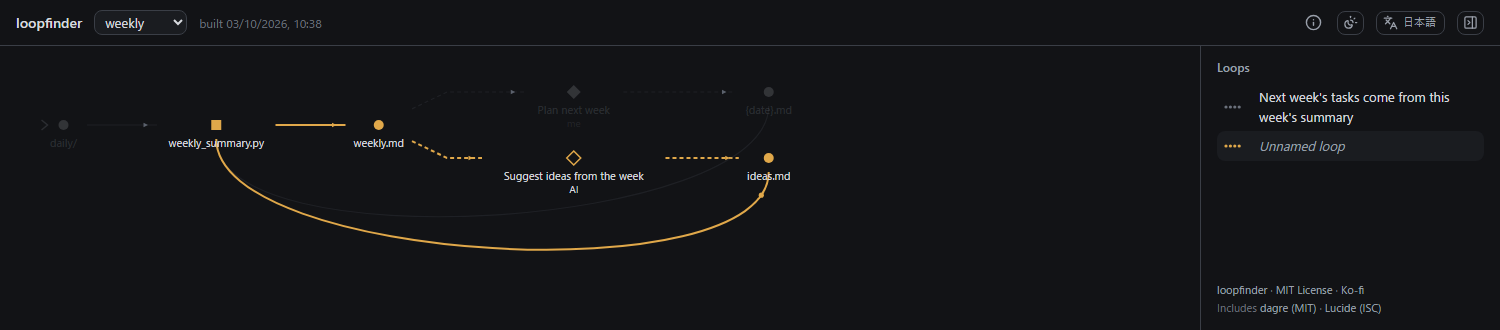
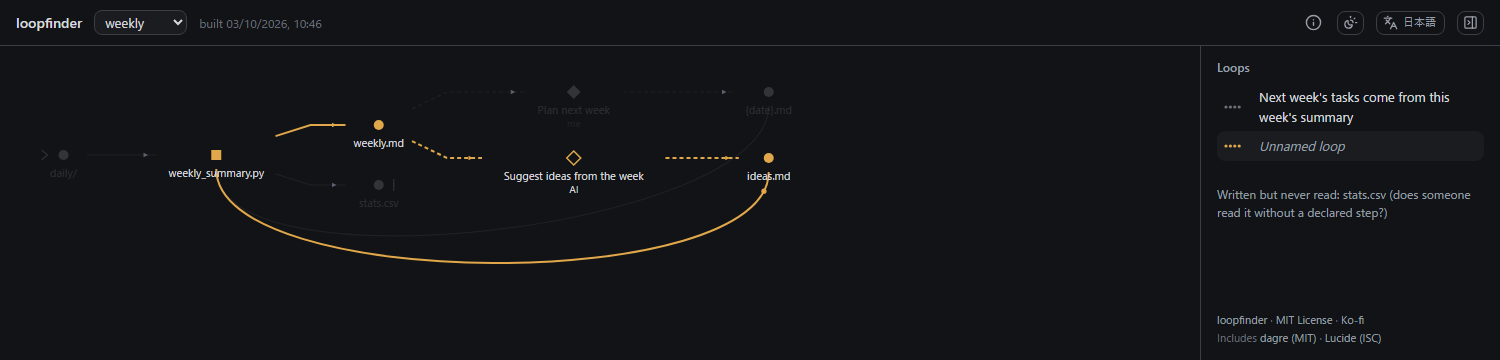
feat: report dead ends, files written but never read
build now lists files that something writes and no flow reads, counted over
all flows together, and the viewer marks them. Sending to a web service is an
intended exit and is not counted. The agent guide says to ask whether someone
reads each one instead of adding an edge to hide it. The demo keeps one dead
end on purpose (summary/stats.csv).

Claude-Session: https://claude.ai/code/session_017sKoAMf7z5eEigqKTwCz8D

diff --git a/test/core.test.js b/test/core.test.js
@@ -189,6 +189,23 @@ test('nodes: dates fold into a placeholder, steps carry who does them', () => {
   assert.strictEqual(n.nodeFromRef('[visitor] Share').actorKind, 'other');
 });
 
+test('dead ends: written and never read, counted over all flows; sending out is not one', () => {
+  const flows = { flows: [
+    { name: 'write', edges: ['notes/in.md -> [me] Write it up -> notes/handoff.md', '[me] Write it up -> web:chat'] },
+    { name: 'read', edges: ['notes/handoff.md -> [AI] Pick it up -> notes/log.md'] },
+  ] };
+  const dir = workspace({ 'loopfinder/config.json': '{}', 'loopfinder/flows.json': JSON.stringify(flows) });
+  const graph = build(loadConfig(path.join(dir, 'loopfinder', 'config.json')), { warn: () => {} });
+  // handoff.md ends the first flow but the second reads it; the message to web:chat is an exit.
+  assert.deepStrictEqual(graph.deadEnds, ['notes/log.md']);
+  assert.strictEqual(graph.nodes.find(nd => nd.id === 'notes/log.md').deadEnd, true);
+  // Control: once nobody reads the hand-off, it is reported too.
+  flows.flows.pop();
+  fs.writeFileSync(path.join(dir, 'loopfinder', 'flows.json'), JSON.stringify(flows));
+  const alone = build(loadConfig(path.join(dir, 'loopfinder', 'config.json')), { warn: () => {} });
+  assert.deepStrictEqual(alone.deadEnds, ['notes/handoff.md']);
+});
+
 function snapshot(dir) {
   const out = {};
   const walk = rel => {
@@ -226,6 +243,8 @@ test('demo: builds the expected loops and leaves the workspace untouched', () =>
   // The outer loop: the weekly review rewrites the topic list the feed loop runs on.
   const outer = loops.find(l => l.name === 'The weekly review changes what the feed collects');
   assert.ok(outer.paths.every(p => p.includes('scripts/feed_topics.json') && p.includes('scripts/fetch_feed.js')));
+  // The one dead end left on purpose: statistics the weekly script writes and nobody reads.
+  assert.deepStrictEqual(graph.deadEnds, ['summary/stats.csv']);
   assert.strictEqual(loops.filter(l => !l.name).length, 1, 'the one loop left undeclared on purpose');
   assert.deepStrictEqual(graph.missingLoops, []);
   // The section hub knows which heading each step touches.

diff --git a/public/app.js b/public/app.js
@@ -41,6 +41,8 @@ function drawMark(g, node) {
     el('rect', { x: -9, y: -4, width: 18, height: 8, rx: 2, class: 'mark-section' }, g);
   } else el('circle', { r: 5, class: 'mark-file' }, g);
   if (node.origin) el('path', { d: 'M-22,-5 L-16,0 L-22,5', class: 'origin-tick' }, g);
+  // A dead end gets a short wall on the side the data would leave from.
+  if (node.deadEnd) el('path', { d: 'M15,-6 L15,6', class: 'deadend-tick' }, g);
 }
 
 function render() {
@@ -249,6 +251,10 @@ function renderLoops() {
   const lost = graph.missingLoops.filter(m => m.startsWith(`${current}: `)).map(m => m.slice(current.length + 2));
   missing.hidden = lost.length === 0;
   missing.textContent = lost.length ? t('missing', { list: lost.join(LANG === 'ja' ? '、' : ', ') }) : '';
+  const ends = document.getElementById('dead-ends');
+  const here = graph.nodes.filter(n => n.deadEnd && (n.flows || []).includes(current)).map(n => n.label);
+  ends.hidden = here.length === 0;
+  ends.textContent = here.length ? t('deadEnds', { list: here.join(LANG === 'ja' ? '、' : ', ') }) : '';
 }
 
 function evidenceText(ev) {
@@ -271,7 +277,7 @@ function renderDetail() {
   if (!n) return;
   const h = document.createElement('h3'); h.textContent = n.label; box.appendChild(h);
   const k = document.createElement('p'); k.className = 'kind';
-  k.textContent = (n.kind === 'step' ? t('stepOf', { actor: n.actor }) : t(`kind_${n.kind}`)) + ((n.originIn || []).includes(current) ? t('originSuffix') : '');
+  k.textContent = (n.kind === 'step' ? t('stepOf', { actor: n.actor }) : t(`kind_${n.kind}`)) + ((n.originIn || []).includes(current) ? t('originSuffix') : '') + (n.deadEnd ? t('deadEndSuffix') : '');
   box.appendChild(k);
   const dl = document.createElement('dl');
   const add = (term, values) => {

diff --git a/public/i18n.js b/public/i18n.js
@@ -19,6 +19,7 @@ const STRINGS = {
     edge_declared: 'Declared by hand (human and AI steps)',
     edge_guess: 'Guessed from code (section hubs)',
     origin: 'Origin (nothing flows into it)',
+    deadEnd: 'Dead end (written, never read)',
     list_loops: 'Loops',
     list_sections: 'Sections',
     list_items: 'Items',
@@ -30,6 +31,8 @@ const STRINGS = {
     generated: 'built {time}',
     stepOf: '{actor} step',
     originSuffix: ', origin',
+    deadEndSuffix: ', dead end',
+    deadEnds: 'Written but never read: {list} (does someone read it without a declared step?)',
     d_location: 'Location',
     d_files: 'Files read or written',
     d_frame: 'Frame',
@@ -74,6 +77,7 @@ const STRINGS = {
     edge_declared: '手で宣言した流れ（人・AI の作業）',
     edge_guess: 'コードから推定した流れ（節の中心図）',
     origin: '起点（どこからも流れ込まない）',
+    deadEnd: '末端（書かれるが、誰も読まない）',
     list_loops: '輪',
     list_sections: '節',
     list_items: '中身',
@@ -85,6 +89,8 @@ const STRINGS = {
     generated: '{time} 時点',
     stepOf: '{actor} の段',
     originSuffix: '・起点',
+    deadEndSuffix: '・末端',
+    deadEnds: '書かれるのに誰も読まないもの: {list}（読む段を宣言し忘れていないか）',
     d_location: '場所',
     d_files: '読み書きしたファイル',
     d_frame: '枠',

diff --git a/src/build.js b/src/build.js
@@ -151,6 +151,16 @@ function build(config, opts = {}) {
     node.originIn = node.flows.filter(f => !dataEdges.some(e => e.to === node.id && e.flows.includes(f)));
   }
 
+  // A dead end is data that something writes and nothing reads, counted over all flows together:
+  // what one flow leaves behind may be what another flow reads. Writing to a web service is an
+  // intended exit, so only files and repositories count. Reading by a person is not recorded, so a
+  // dead end may also be a reading step nobody declared; either way it is worth asking about.
+  const deadEnds = [...nodes.values()]
+    .filter(nd => (nd.kind === 'file' || nd.kind === 'repo')
+      && dataEdges.some(e => e.to === nd.id) && !dataEdges.some(e => e.from === nd.id))
+    .map(nd => nd.id);
+  for (const id of deadEnds) nodes.get(id).deadEnd = true;
+
   const hubs = buildHubs(config, { flows, traces, nodes, edges: dataEdges, n });
   const all = [...loops, ...hubs.flatMap(h => h.loops)].map((l, i) => ({ ...l, id: i }));
   return {
@@ -165,6 +175,7 @@ function build(config, opts = {}) {
     edges: [...edges.values(), ...hubs.flatMap(h => h.edges)],
     loops: all,
     missingLoops: [...new Set(missing)],
+    deadEnds,
   };
 }
 

diff --git a/public/index.html b/public/index.html
@@ -30,6 +30,7 @@
           <li><svg viewBox="-12 -8 24 16"><rect x="-9" y="-4" width="18" height="8" rx="2" class="mark-section"/></svg><span data-i18n="kind_section"></span></li>
           <li><svg viewBox="0 -4 24 8"><line x1="0" y1="0" x2="24" y2="0" class="edge guess"/></svg><span data-i18n="edge_guess"></span></li>
           <li><svg viewBox="-8 -8 16 16"><path d="M-7,-4 L-2,0 L-7,4" class="origin-tick"/><circle cx="3" r="4" class="mark-file"/></svg><span data-i18n="origin"></span></li>
+          <li><svg viewBox="-8 -8 16 16"><circle cx="-2" r="4" class="mark-file"/><path d="M5,-5 L5,5" class="deadend-tick"/></svg><span data-i18n="deadEnd"></span></li>
         </ul>
       </div>
     </details>
@@ -46,6 +47,7 @@
       <h2 id="list-title"></h2>
       <ul id="loops" class="loops"></ul>
       <p id="missing" class="warn" hidden></p>
+      <p id="dead-ends" class="warn" hidden></p>
       <div id="detail" class="detail" hidden></div>
       <footer class="side-foot">
         <a href="https://github.com/MotimotiNotch/loopfinder" target="_blank" rel="noopener">loopfinder</a>

diff --git a/bin/loopfinder.js b/bin/loopfinder.js
@@ -63,6 +63,8 @@ async function cmdBuild() {
   for (const l of real) console.log(`  ${l.flow}: ${l.name || '(unnamed loop)'}`);
   const unnamed = real.filter(l => !l.name);
   if (unnamed.length) console.log(`! ${unnamed.length} unnamed loop(s): feedback you did not declare. Check whether it is intended.`);
+  const ends = graph.deadEnds.map(id => graph.nodes.find(nd => nd.id === id)?.path || id);
+  if (ends.length) console.log(`! ${ends.length} dead end(s): written but never read: ${ends.join(', ')}. Ask whether someone reads it.`);
   for (const m of graph.missingLoops) console.log(`! declared but not found: ${m} (a step changed and the loop broke?)`);
   await runChecks(config, graph);
 }

diff --git a/public/style.css b/public/style.css
@@ -200,6 +200,7 @@ body {
 /* In section hubs, a link guessed from code is drawn weaker than a recorded or declared one. */
 .edge.guess { stroke-dasharray: 1.5 3; }
 .origin-tick { fill: none; stroke: var(--fg-muted); stroke-width: 1.5; }
+.deadend-tick { fill: none; stroke: var(--fg-muted); stroke-width: 1.5; }
 .node text { fill: var(--fg-muted); font-size: 11px; }
 .node .actor { fill: var(--fg-faint); font-size: 10px; }
 .node { cursor: pointer; }

diff --git a/examples/demo/scripts/weekly_summary.py b/examples/demo/scripts/weekly_summary.py
@@ -1,4 +1,5 @@
 """Reads the week's daily notes and the idea list, and writes summary/weekly.md.
+Also writes summary/stats.csv (counts per week), which nothing reads yet.
 
     python scripts/weekly_summary.py
 """
@@ -9,6 +10,7 @@ HERE = os.path.dirname(os.path.abspath(__file__))
 DAILY = os.path.join(HERE, "..", "notes", "daily")
 IDEAS = os.path.join(HERE, "..", "notes", "ideas.md")
 OUT = os.path.join(HERE, "..", "summary", "weekly.md")
+STATS = os.path.join(HERE, "..", "summary", "stats.csv")
 
 tasks, logs = [], []
 for name in sorted(os.listdir(DAILY)):
@@ -25,3 +27,6 @@ with open(OUT, "w", encoding="utf-8") as f:
     f.writelines("- %s\n" % t for t in tasks)
     f.write("\n## Ideas to try\n")
     f.writelines("- %s\n" % i for i in ideas)
+
+with open(STATS, "a", encoding="utf-8") as f:
+    f.write("%d,%d\n" % (len(tasks), len(ideas)))

diff --git a/README.ja.md b/README.ja.md
@@ -14,7 +14,7 @@ loopfinder はその系を描き、中にある輪をすべて並べます。
 
 1. **ワークスペースの調査は、いつも使っている AI エージェントが行います。** loopfinder 自体は AI を持っていません。代わりに案内書 `loopfinder/AGENTS.md` を書き出すので、それを読んで調べるよう、使っているエージェント（Claude Code、Codex、Cursor など）に頼みます。エージェントは調べた結果を `loopfinder/flows.json` に書きます。中身は、どのスクリプトを動かすかと、コードに現れない段（自分の作業、AI の作業）です。自分のノートには手を入れません。
 2. **スクリプトを実際に動かして、触ったものを記録します**（読み・書き・通信・サブプロセス）。書き込みは止めるので、ディスクの上は何も変わりません。
-3. **単純閉路をすべて数え、宣言した名前を当て、残りを知らせます**。*名前のない輪*は、宣言していないフィードバックです。*見つからない輪*は、宣言したのにもう無い輪です（手順が変わって輪が切れた合図）。
+3. **単純閉路をすべて数え、宣言した名前を当て、残りを知らせます**。*名前のない輪*は、宣言していないフィードバックです。*見つからない輪*は、宣言したのにもう無い輪です（手順が変わって輪が切れた合図）。あわせて*末端*も知らせます。書かれるのに、どの流れからも読まれないファイルです（誰も回収していない出力か、宣言し忘れた「読む段」）。
 
 ![デモの reading の流れで輪を1本選んだところ](docs/demo-reading.png)
 
@@ -56,8 +56,8 @@ node /path/to/loopfinder/bin/loopfinder.js build
 node /path/to/loopfinder/bin/loopfinder.js serve
 ```
 
-`build` は、見つけた輪、名前のない輪、宣言したのに見つからない輪を出力します。
-名前のない輪はエージェントに戻してください。どれが意図どおりかをこちらに聞いて、名前を付けます。手順が変わったら、もう一度調査を頼みます。そのときエージェントは、それぞれの流れを読み取った元のファイルから見直します。
+`build` は、見つけた輪、名前のない輪、宣言したのに見つからない輪、末端を出力します。
+名前のない輪と末端はエージェントに戻してください。どの輪が意図どおりかをこちらに聞いて名前を付け、末端は誰かが読んでいるかを聞きます。手順が変わったら、もう一度調査を頼みます。そのときエージェントは、それぞれの流れを読み取った元のファイルから見直します。
 
 loopfinder が置くものは2つのフォルダだけです。`loopfinder/`（流れと設定。バージョン管理に入れておく価値があります）と、`.loopfinder/`（組み立ての出力。ファイルのパスが並ぶので、入れないでください）。
 `AGENTS.md` は、入っている loopfinder の版に合わせて毎回書き直されます。手で直しても、次の実行で消えます。

diff --git a/README.md b/README.md
@@ -20,7 +20,8 @@ loopfinder draws that system and lists every loop in it:
    with writes blocked, so nothing on disk changes.
 3. **It counts every simple cycle, gives each one the name you declared, and reports the rest**:
    an *unnamed loop* is feedback you did not declare; a *missing loop* is one you declared that is no
-   longer there (a step changed and the loop broke).
+   longer there (a step changed and the loop broke). It also reports *dead ends*: files something
+   writes and no flow reads (output nobody collects, or a reading step nobody declared).
 
 ![The demo's "reading" flow with one loop picked](docs/demo-reading.png)
 
@@ -69,8 +70,9 @@ node /path/to/loopfinder/bin/loopfinder.js build
 node /path/to/loopfinder/bin/loopfinder.js serve
 ```
 
-`build` prints the loops it found, the unnamed ones, and the declared ones it could not find. Hand the
-unnamed ones back to the agent: it asks you which are intended and names them. To survey again after
+`build` prints the loops it found, the unnamed ones, the declared ones it could not find, and the dead
+ends. Hand the unnamed loops and the dead ends back to the agent: it asks you which loops are intended
+and names them, and whether someone reads each dead end. To survey again after
 your routines change, ask again; the agent starts from the files each flow was learned from.
 
 Everything loopfinder keeps is in two folders: `loopfinder/` (the flows and the config — worth keeping

diff --git a/src/agents-guide.md b/src/agents-guide.md
@@ -45,8 +45,13 @@ describe are flows. This file is the only one about the survey itself.
    - **Declared but not found**: a loop you declared does not exist in the graph. Either your
      declaration is wrong or a step has changed. Read the flow's `sources` again before changing
      anything.
-6. **Report in a few lines**: the flows, the loops, the unnamed loops, and what you could not
-   determine (and why).
+   - **Dead end**: a file that something writes and no flow reads. Reading by a person is not
+     recorded, so ask the user whether someone reads it. If someone does, declare that reading
+     step (with the user's words for it). If nobody does, that is a finding: report it (output
+     nobody collects, a hand-off the other side stopped reading). Do not add a reading edge just
+     to make it go away.
+6. **Report in a few lines**: the flows, the loops, the unnamed loops, the dead ends, and what you
+   could not determine (and why).
 
 **When the user cannot be asked** (they told you to work alone, or are away): do not guess on their
 behalf. Leave loops unnamed, leave undecided scripts out of `trace`, and end your report with the
